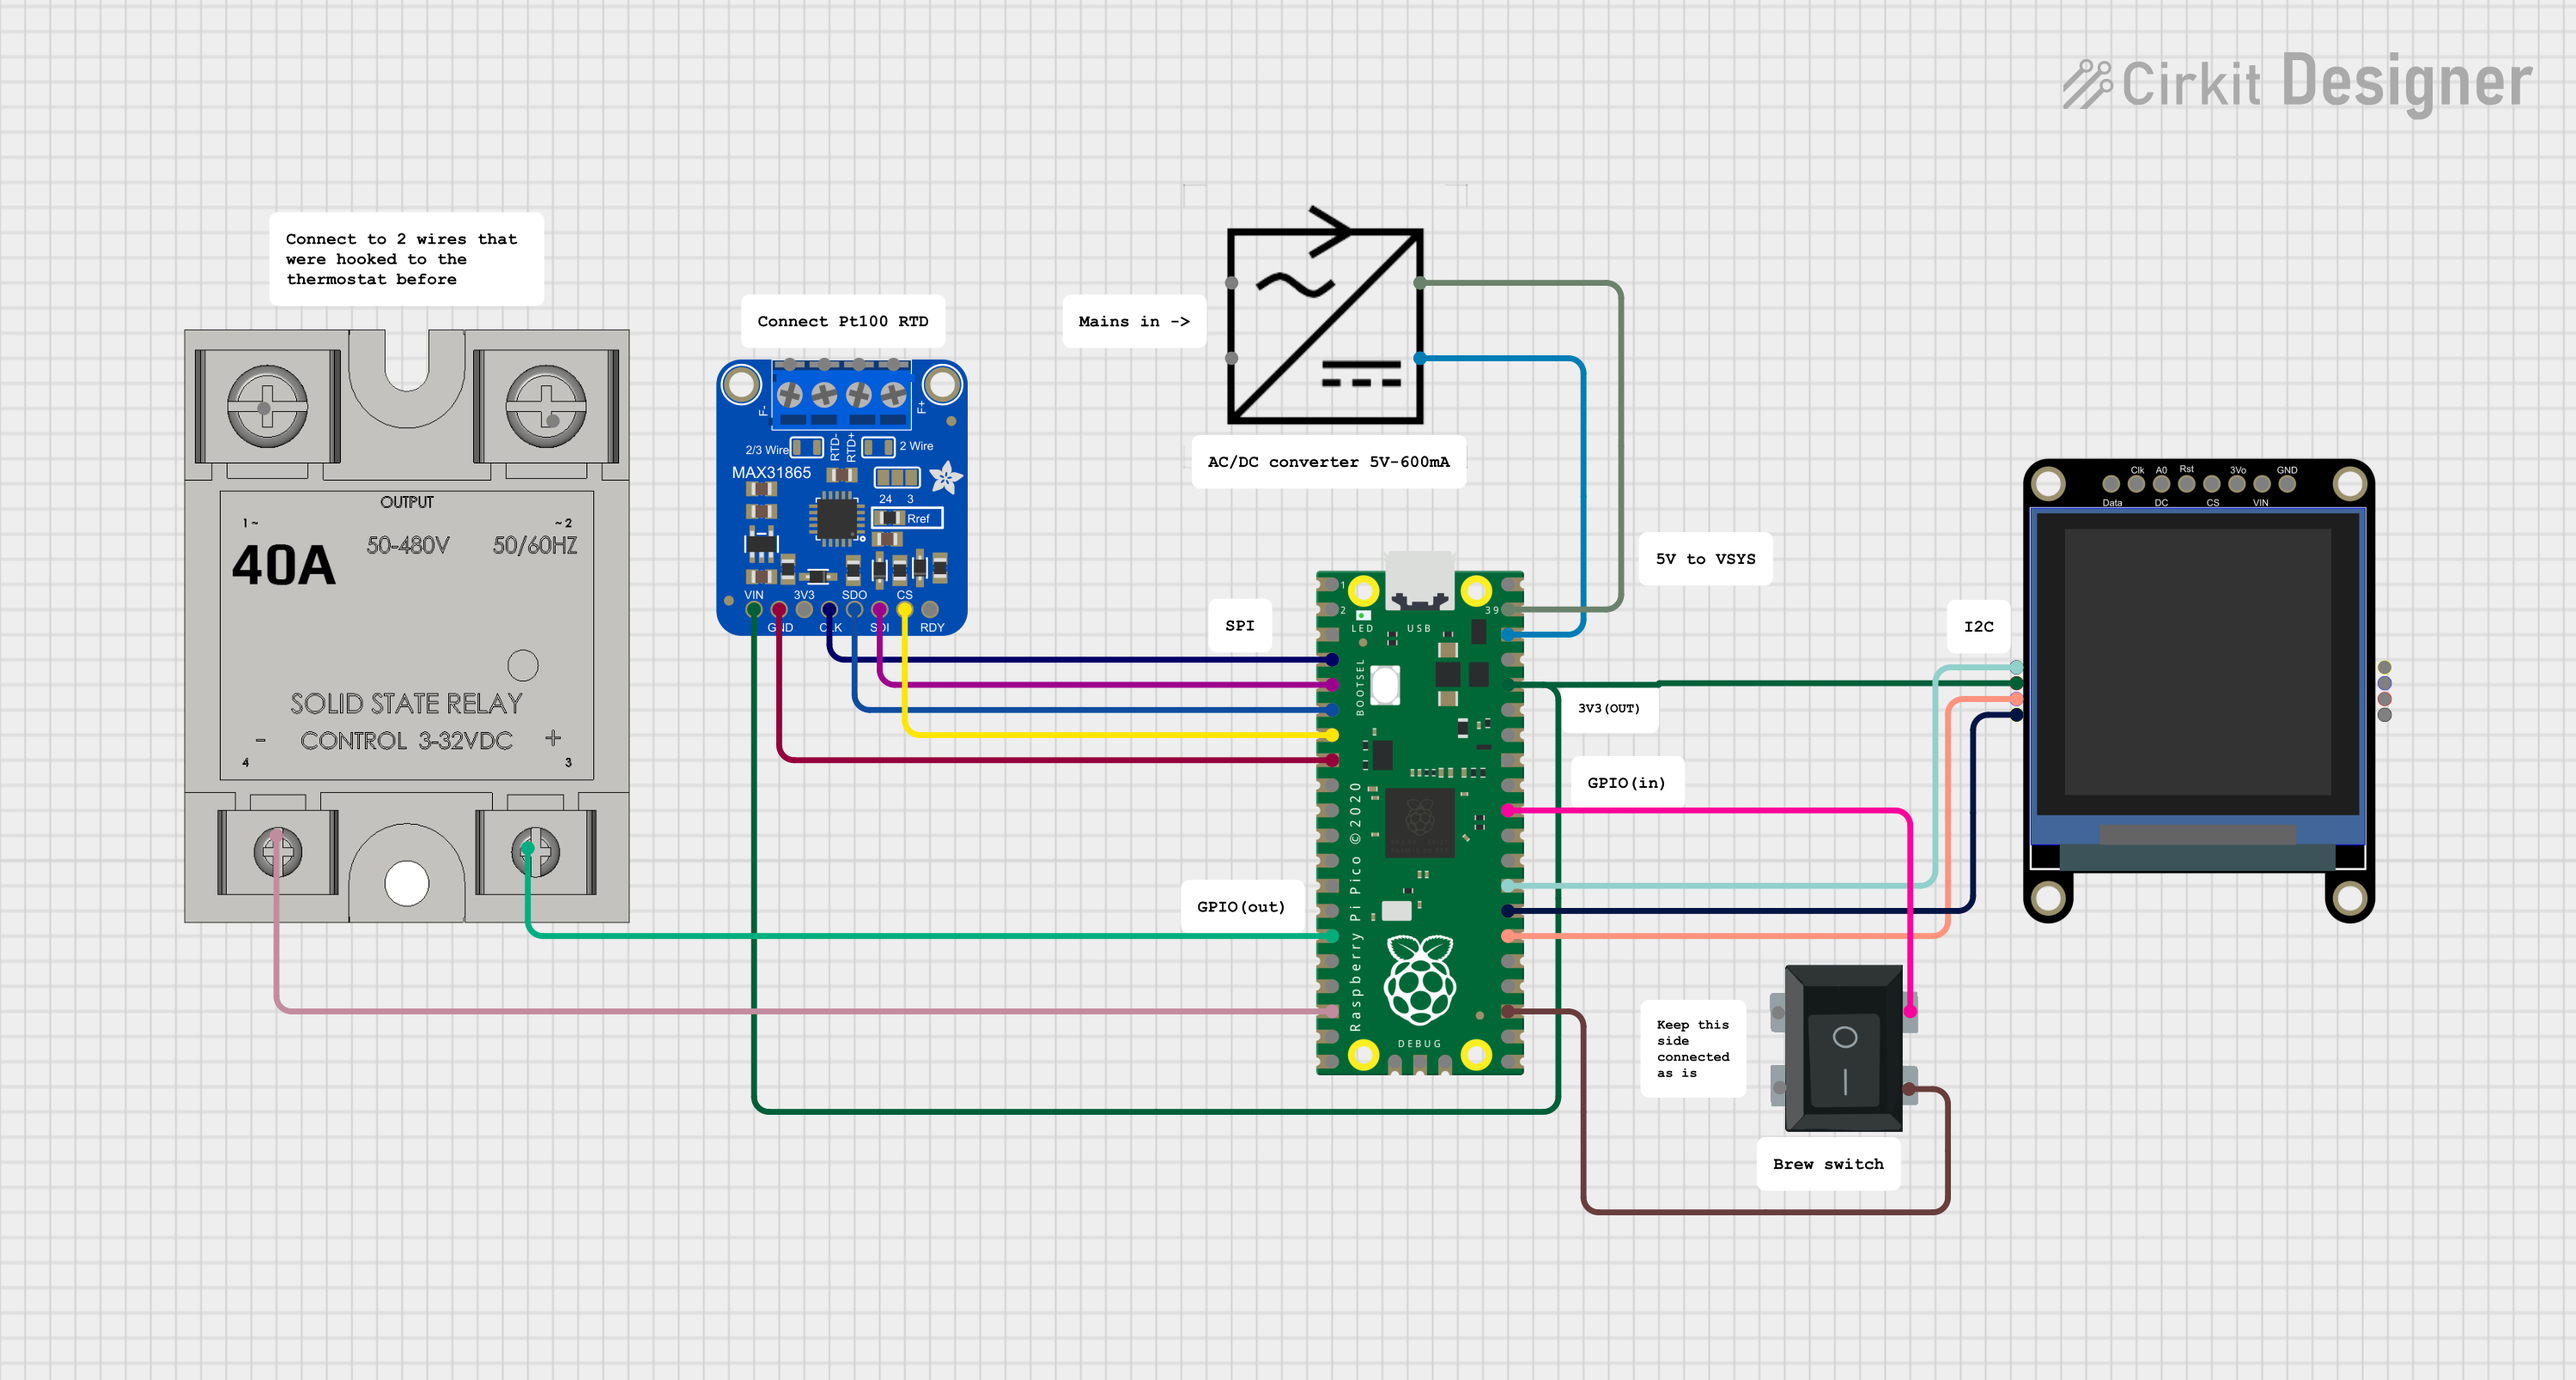
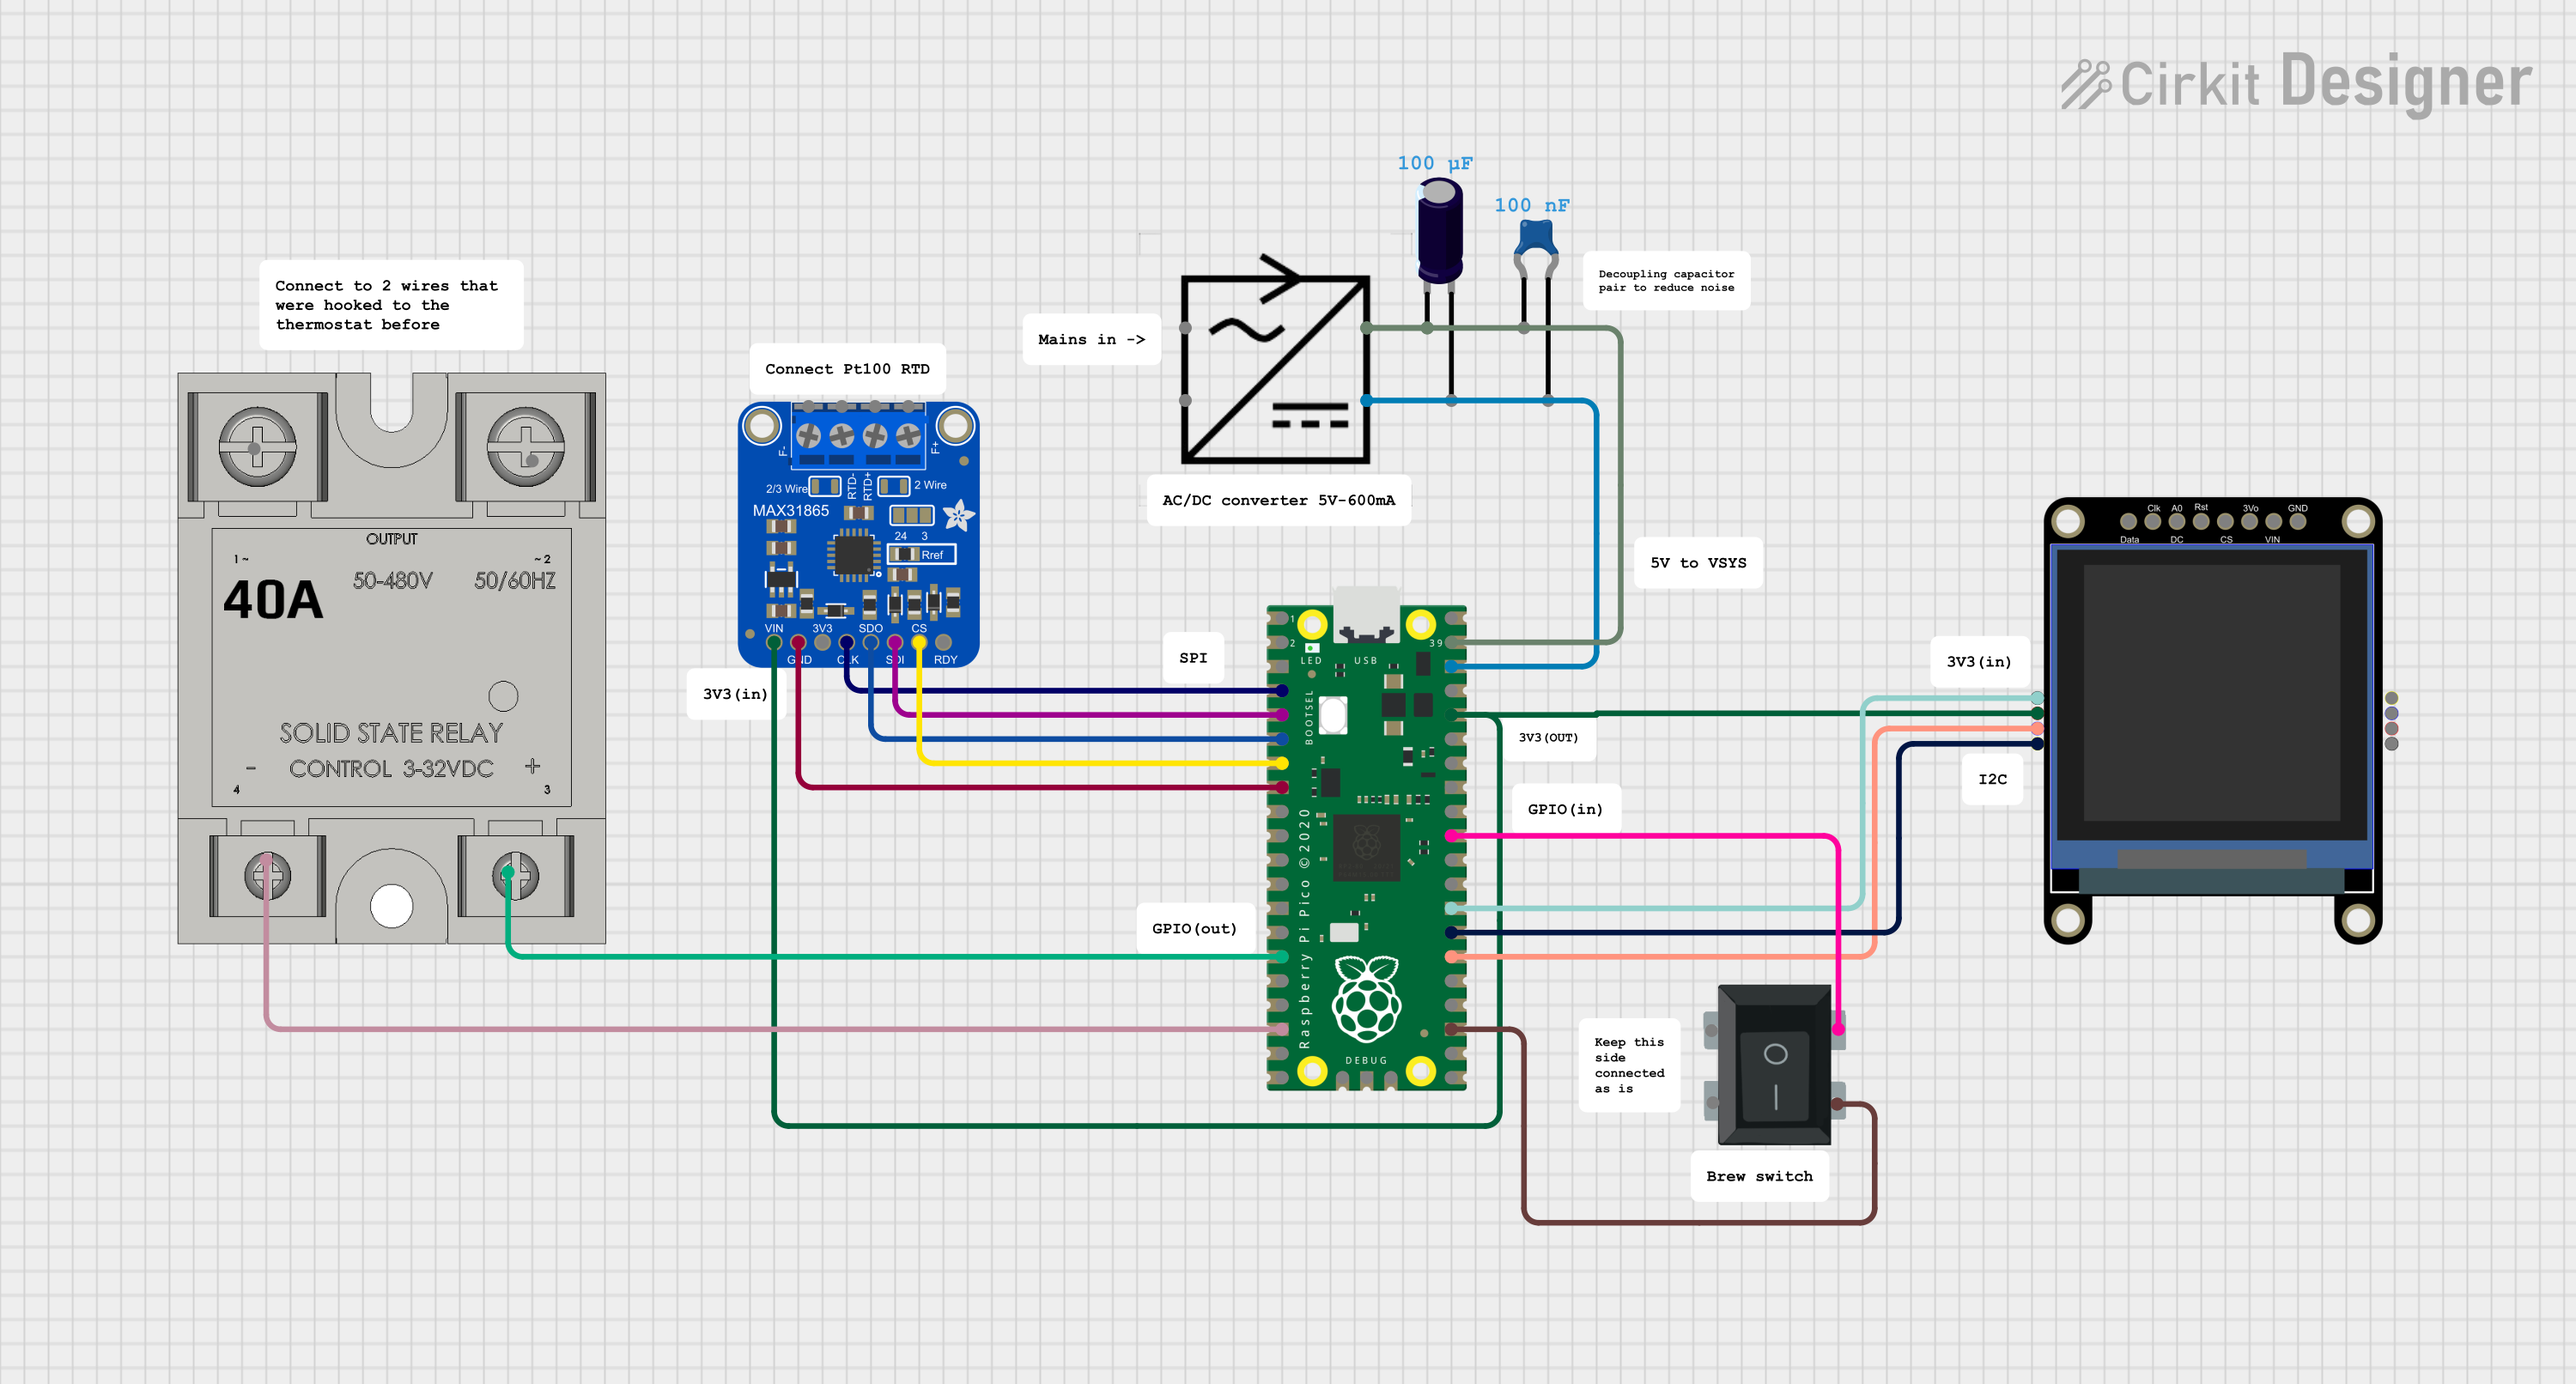
Updated readme

Changed region(s): [[0.062, 0.1244, 0.93, 0.9017], [0.806, 0.0311, 0.837, 0.0622]]

diff --git a/README.md b/README.md
@@ -139,6 +139,17 @@ required to draw power from the machine itself. I found a small module
 on AliExpress that outputs up to 600mA at 5V, which is more than
 sufficient for powering the Pico and a few peripherals.
 
+The converted turned out to be quite noisy, with voltage spikes
+occasionally reaching up to 400mV (based on the rough measurements I 
+took with an oscilloscope). The quality of my wiring likely contributed
+to the issue as well. While most components in the system tolerate this
+noise well, the MAX31865 is significantly more sensitive. As a result,
+it frequently reported faults during temperature readings. To address
+this, I added a pair of decoupling capacitors between VSYS and GND: a
+100µF electrolytic capacitor for bulk filtering and a 0.1µF ceramic
+capacitor for high-frequency noise suppression. This appears to have
+resolved the issue.
+
 <img src="/docs/hardware/acdc.jpg" alt="hw_ACDC" width="220" height="220">
 
 Second, we need a way to monitor the machine's temperature in real
@@ -262,15 +273,20 @@ explore.
 
 ### Error handler
 
-As this mod is not bulletproof and definitely does not meet industry
-standards, some form of error handler was logical to implement. The
-solution is straightforward: it checks for a supplied input condition.
-If the condition is false and severe enough — disable the PWM and
-display the error code. Check implementation here —
-[src/error.cpp](src/error.cpp)
+As this mod is not bulletproof, some form of error handler was logical
+to implement.
+The approach I took was straightforward: during a cycle, the system
+checks whether input conditions are met. If a condition fails and the
+associated error has a higher priority than previously stored error, the
+system stores the new error code. At the end of the loop, the following
+actions are taken:
 
-Some improvement would be nice to have, like managing the priorities of
-errors. Maybe something for the future...
+- Disable PWM output if the error is severe enough.
+
+- Display the current error code. If no error is present, reset the
+error status and re-enable the PWM.
+
+Check implementation here — [src/error.cpp](src/error.cpp)
 
 ### Display
 
